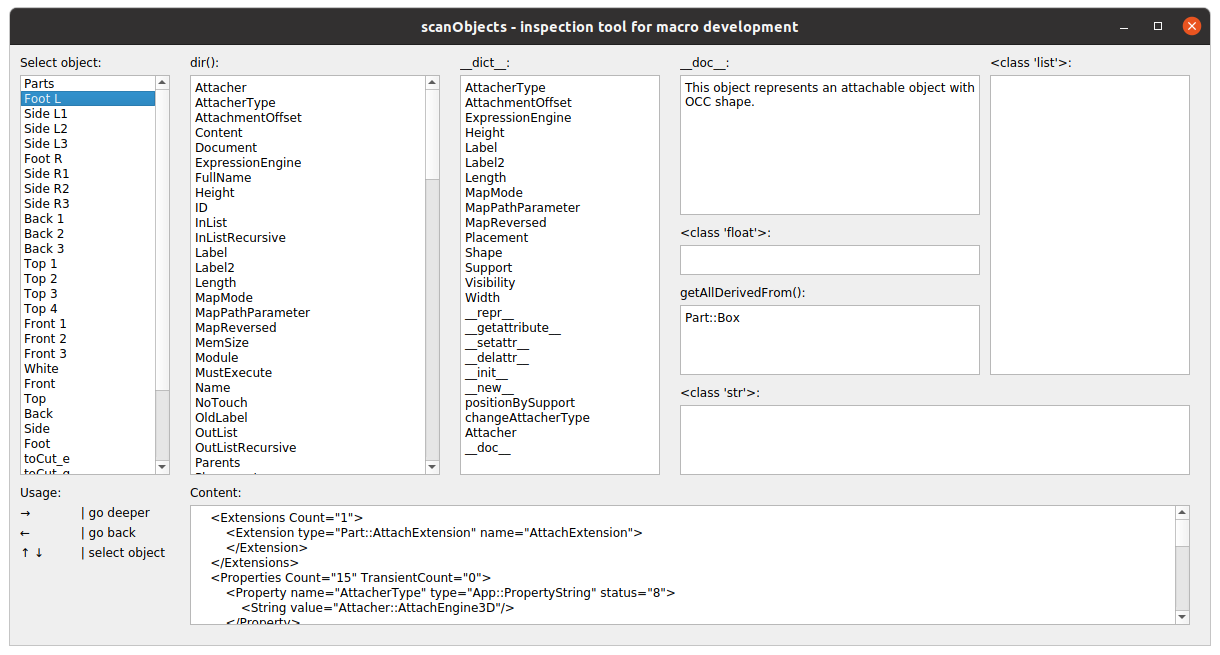
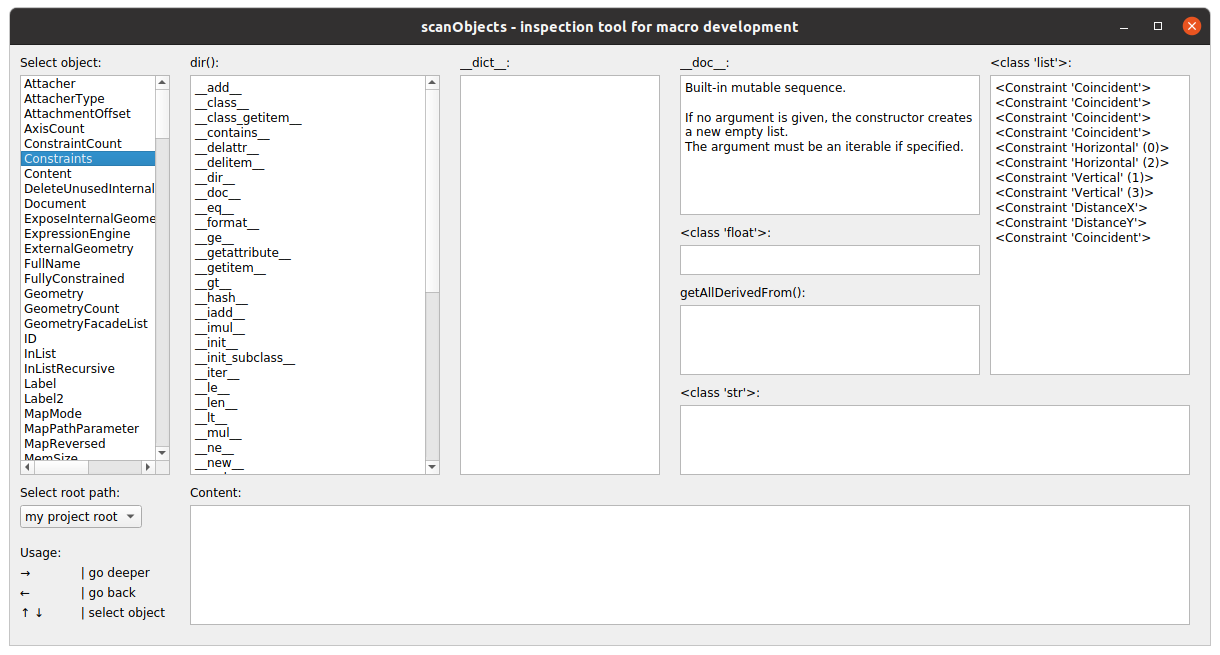
add FreeCAD root

diff --git a/scanObjects.py b/scanObjects.py
@@ -2,7 +2,7 @@
 
 # Inspection tool for FreeCAD macro development.
 # Author: Darek L (aka dprojects)
-# Version: 1.1 (entry level)
+# Version: 1.2 (entry level)
 # Latest version: https://github.com/dprojects/scanObjects
 
 import FreeCAD, Draft, Spreadsheet
@@ -58,24 +58,40 @@ def showQtGUI():
 			self.list.move(10, 30)
 
 			# ############################################################################
+			# select root path
+			# ############################################################################
+
+			# label
+			self.rootL = QtGui.QLabel("Select root path:", self)
+			self.rootL.move(10, 440)
+			
+			# options
+			self.rootList = ("my project root","FreeCAD")
+			self.rootO = QtGui.QComboBox(self)
+			self.rootO.addItems(self.rootList)
+			self.rootO.setCurrentIndex(self.rootList.index("my project root"))
+			self.rootO.activated[str].connect(self.setRootPath)
+			self.rootO.move(10, 460)
+
+			# ############################################################################
 			# info box
 			# ############################################################################
 
 			# label
 			self.i0L = QtGui.QLabel("Usage:", self)
-			self.i0L.move(10, 440)
+			self.i0L.move(10, 500)
 
 			# label
 			self.i1L = QtGui.QLabel("→ \t | go deeper", self)
-			self.i1L.move(10, 460)
+			self.i1L.move(10, 520)
 
 			# label
 			self.i2L = QtGui.QLabel("← \t | go back", self)
-			self.i2L.move(10, 480)
+			self.i2L.move(10, 540)
 
 			# label
 			self.i3L = QtGui.QLabel("↑ ↓ \t | select object", self)
-			self.i3L.move(10, 500)
+			self.i3L.move(10, 560)
 			
 			# ############################################################################
 			# output 1
@@ -192,16 +208,41 @@ def showQtGUI():
 			# show
 			# ############################################################################
 
-			# init db
-			root = FreeCAD.activeDocument().Objects
-			rootS= "FreeCAD.activeDocument().Objects"
-			self.addSelection("", root, rootS)
+			# init default selection db
+			self.setRootPath("my project root")
 
 			self.show()
 		
 		# ############################################################################
 		# functions
 		# ############################################################################
+
+		def clearDB(self):
+
+			# database for selection
+			self.dbSO = [] # objects
+			self.dbSL = [] # labels
+			self.dbSI = -1 # index
+			self.dbSP = [] # path
+
+		def setRootPath(self, selectedText):
+
+			# clear db before root set
+			self.clearDB()
+
+			if selectedText == "my project root":
+
+				# init db
+				root = FreeCAD.activeDocument().Objects
+				rootS= "FreeCAD.activeDocument().Objects"
+				self.addSelection("", root, rootS)
+				
+			if selectedText == "FreeCAD":
+
+				# init db
+				root = dir(FreeCAD)
+				rootS= "FreeCAD"
+				self.addSelection(FreeCAD, root, rootS)
 
 		def setOutput(self, iObj):
 

diff --git a/README.md b/README.md
@@ -4,9 +4,13 @@ This is inspection tool for FreeCAD macro development.
 
 ![001](https://raw.githubusercontent.com/dprojects/scanObjects/master/Screenshots/001.png)
 
-![003](https://raw.githubusercontent.com/dprojects/scanObjects/master/Screenshots/002.png)
+![002](https://raw.githubusercontent.com/dprojects/scanObjects/master/Screenshots/002.png)
 
 ![003](https://raw.githubusercontent.com/dprojects/scanObjects/master/Screenshots/003.png)
+
+![004](https://raw.githubusercontent.com/dprojects/scanObjects/master/Screenshots/004.png)
+
+![005](https://raw.githubusercontent.com/dprojects/scanObjects/master/Screenshots/005.png)
 
 # Contact
 
